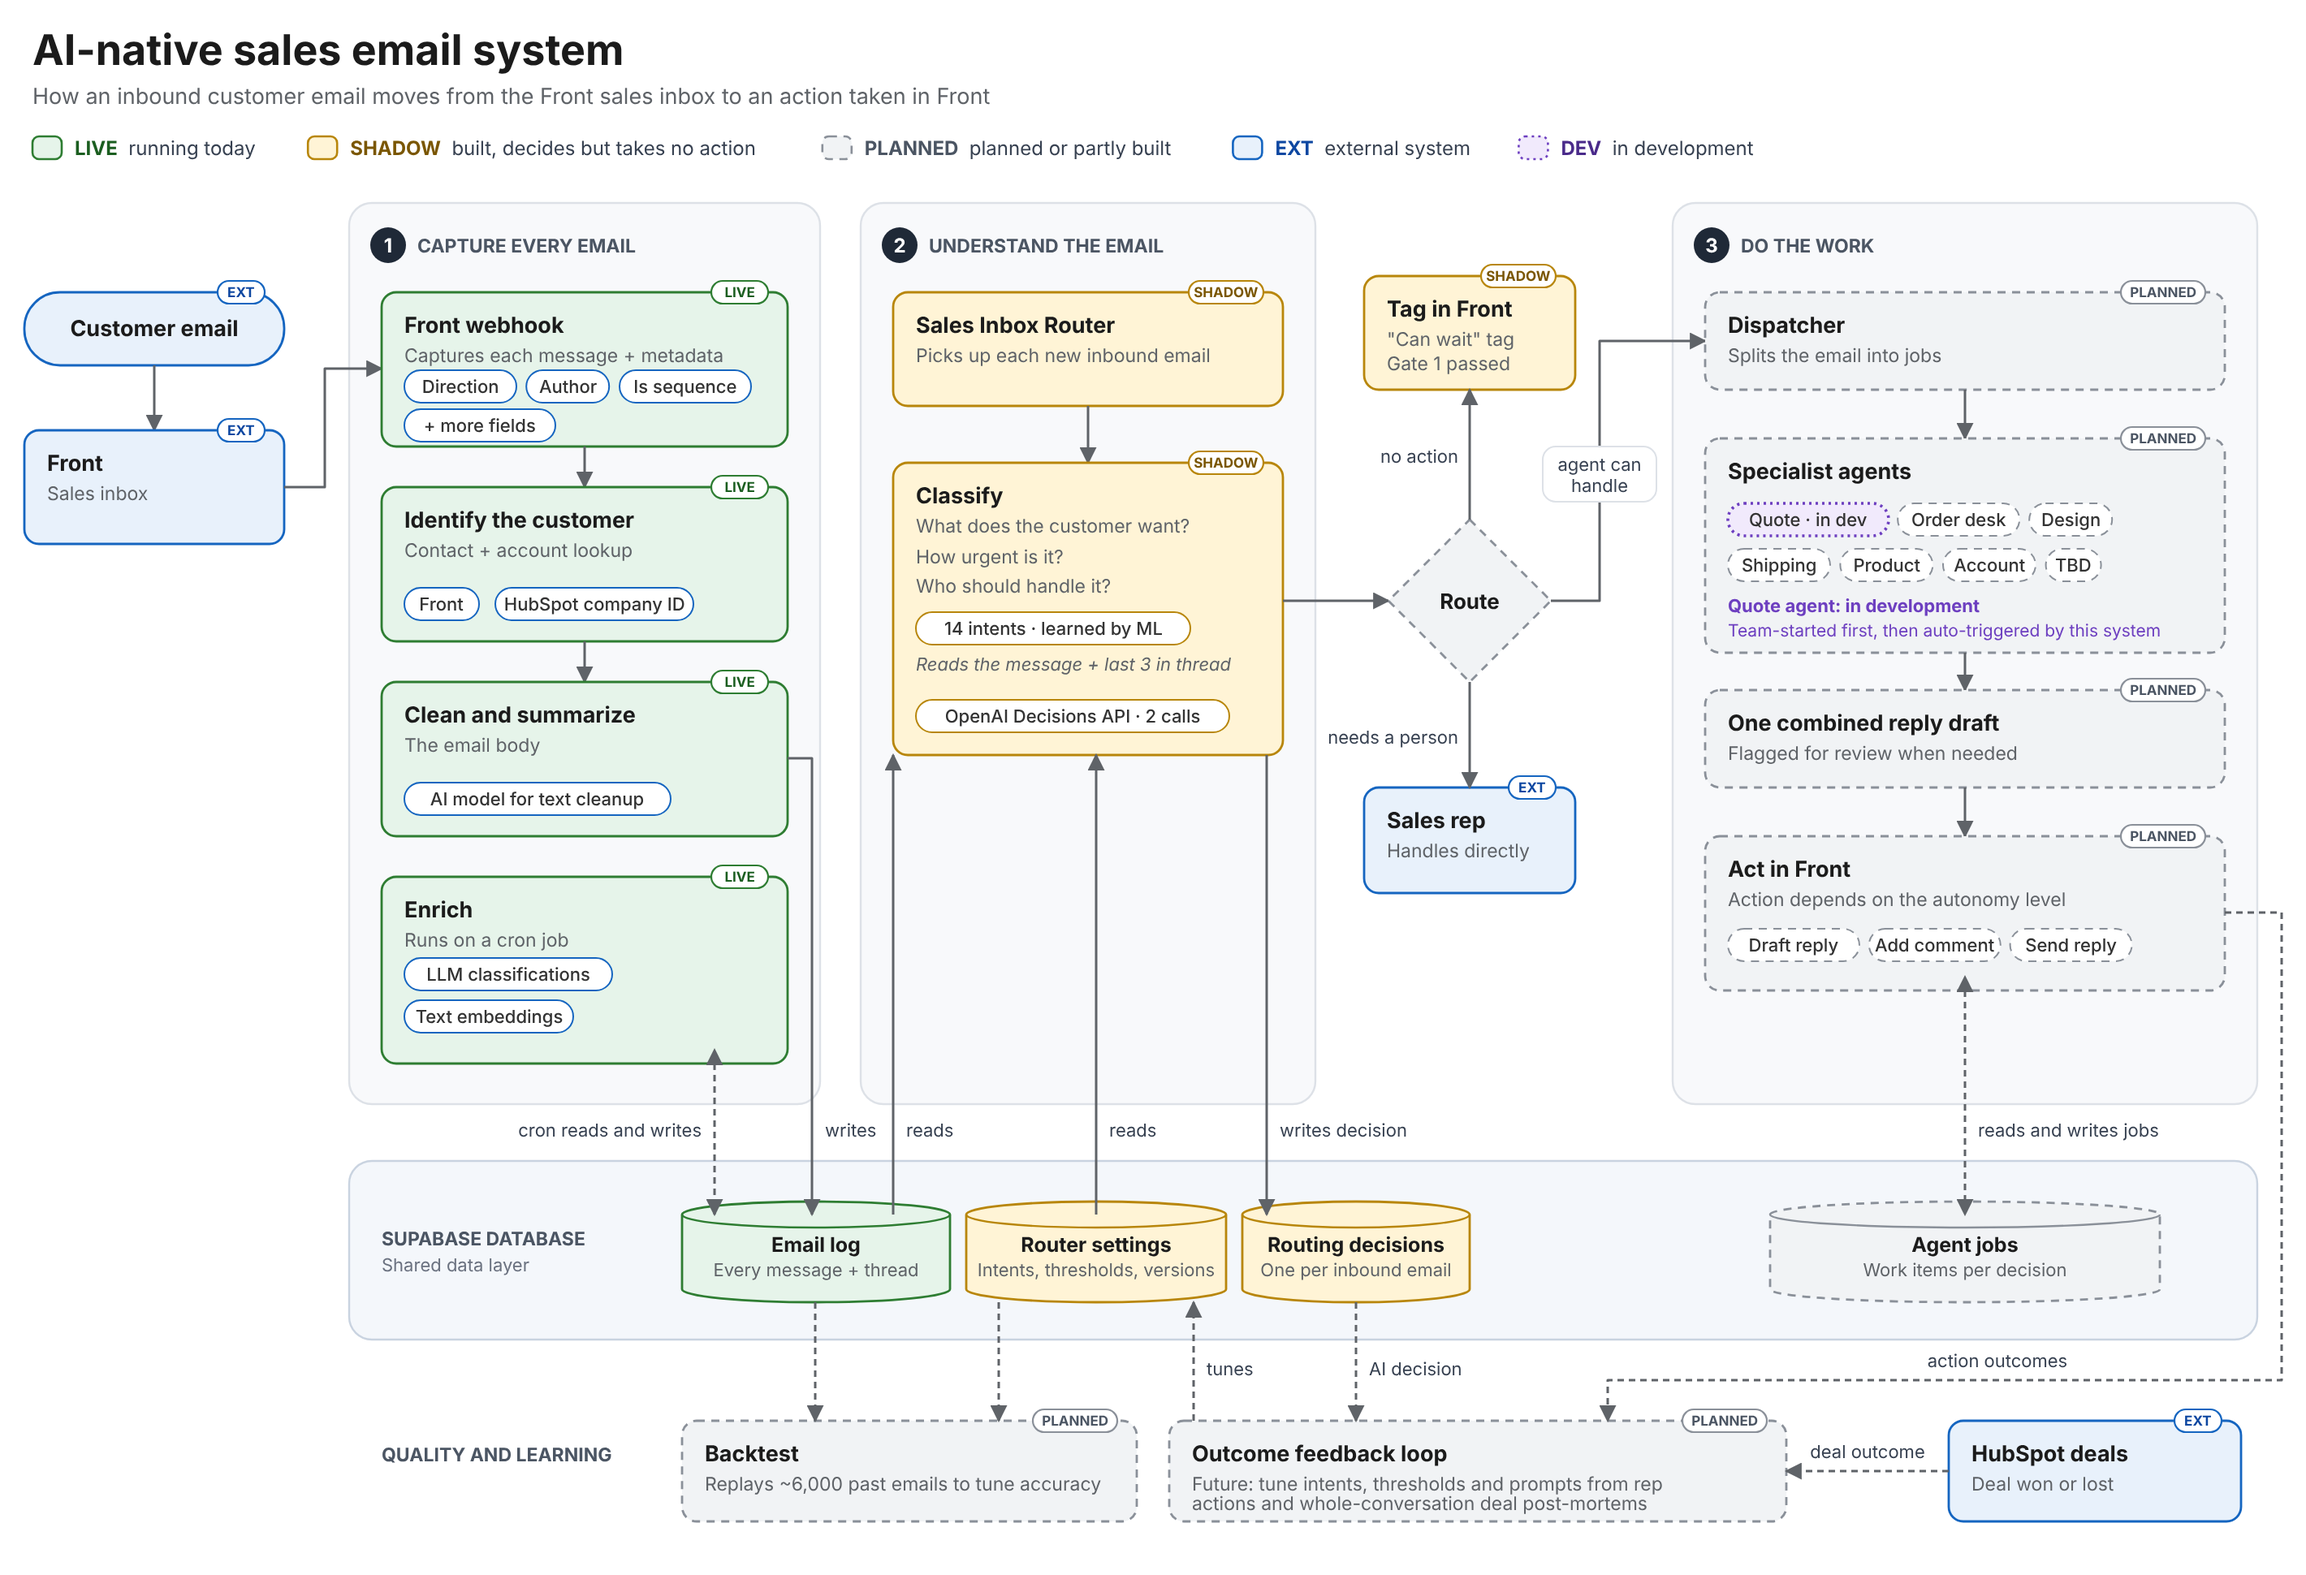
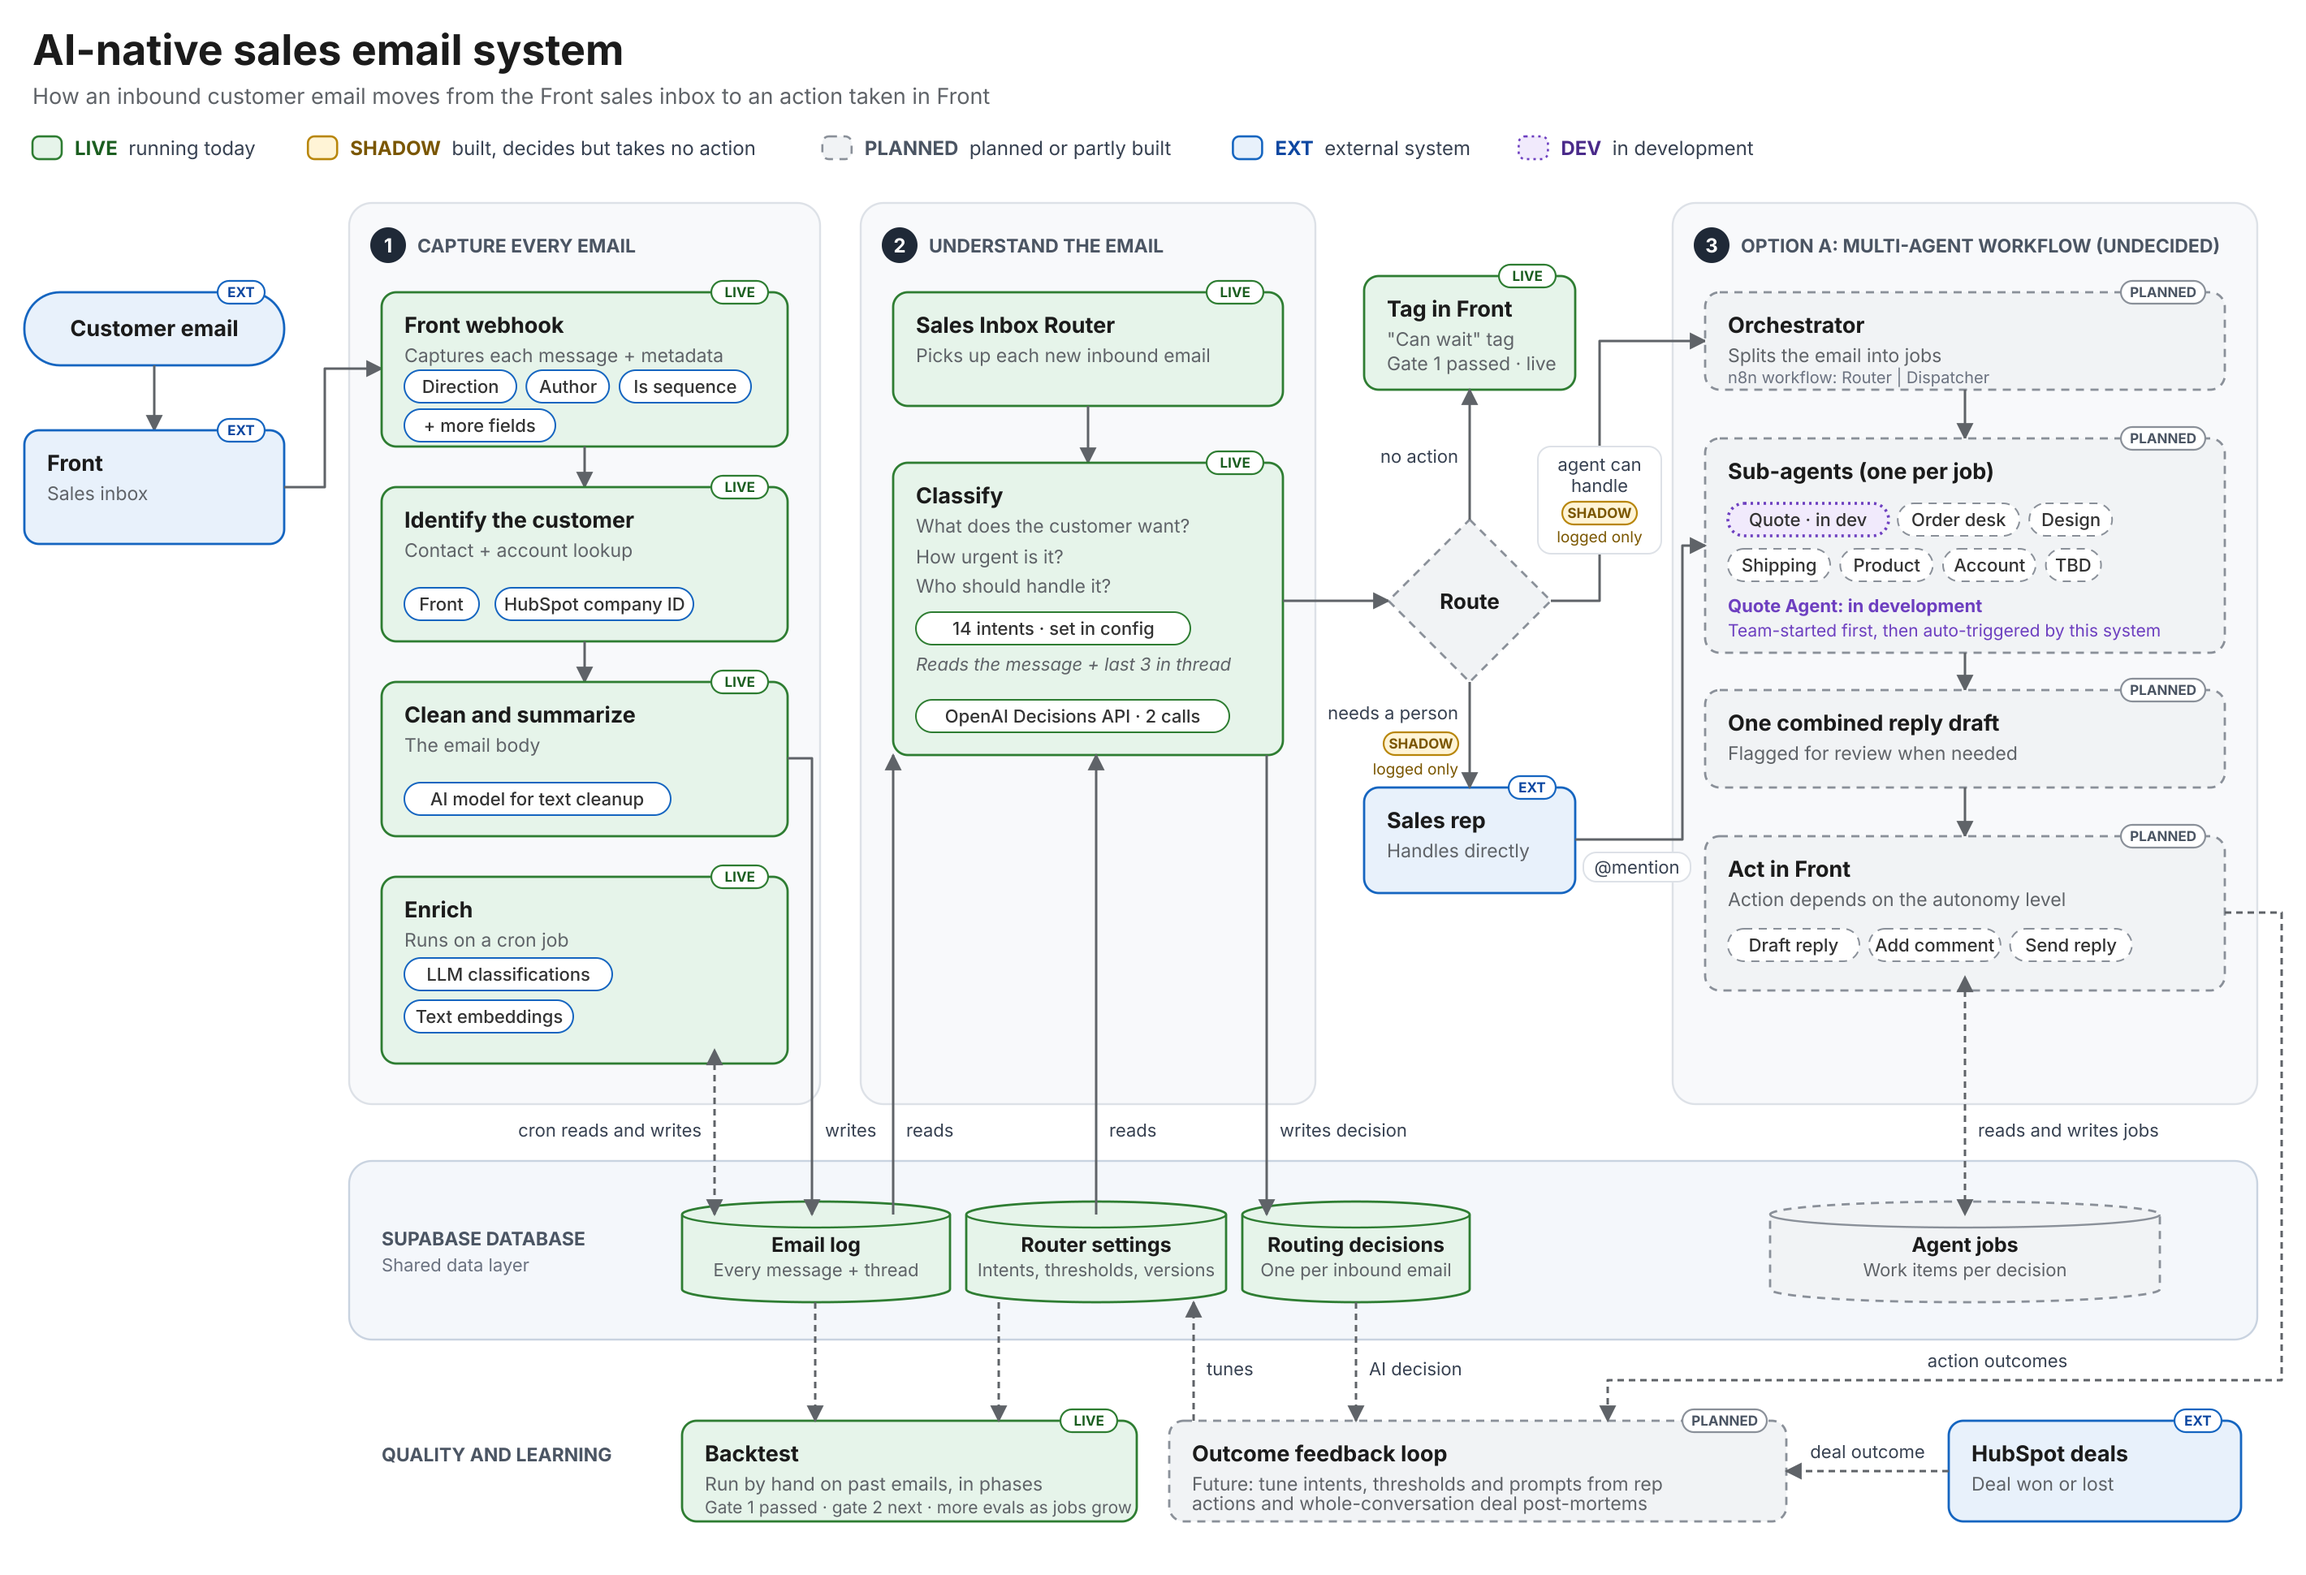
Sync diagram with latest sales email system image

diff --git a/projects/ai-native-email-system/diagrams/README.md b/projects/ai-native-email-system/diagrams/README.md
@@ -1,5 +1,5 @@
 # Diagrams
 
-The [sales email system architecture](ai-native-sales-email-system.png) shows the live capture and enrichment pipeline, the router running in shadow mode, and the planned paths to a sales rep or specialist agents. The Quote Agent is marked separately as in development.
+The [sales email system architecture](ai-native-sales-email-system.png) shows live capture, enrichment, classification, and advisory tagging, with handoff recommendations logged in shadow mode. It also shows a possible multi-agent workflow, marked as undecided, and the Quote Agent in development.
 
 [Back to case study](../README.md)
